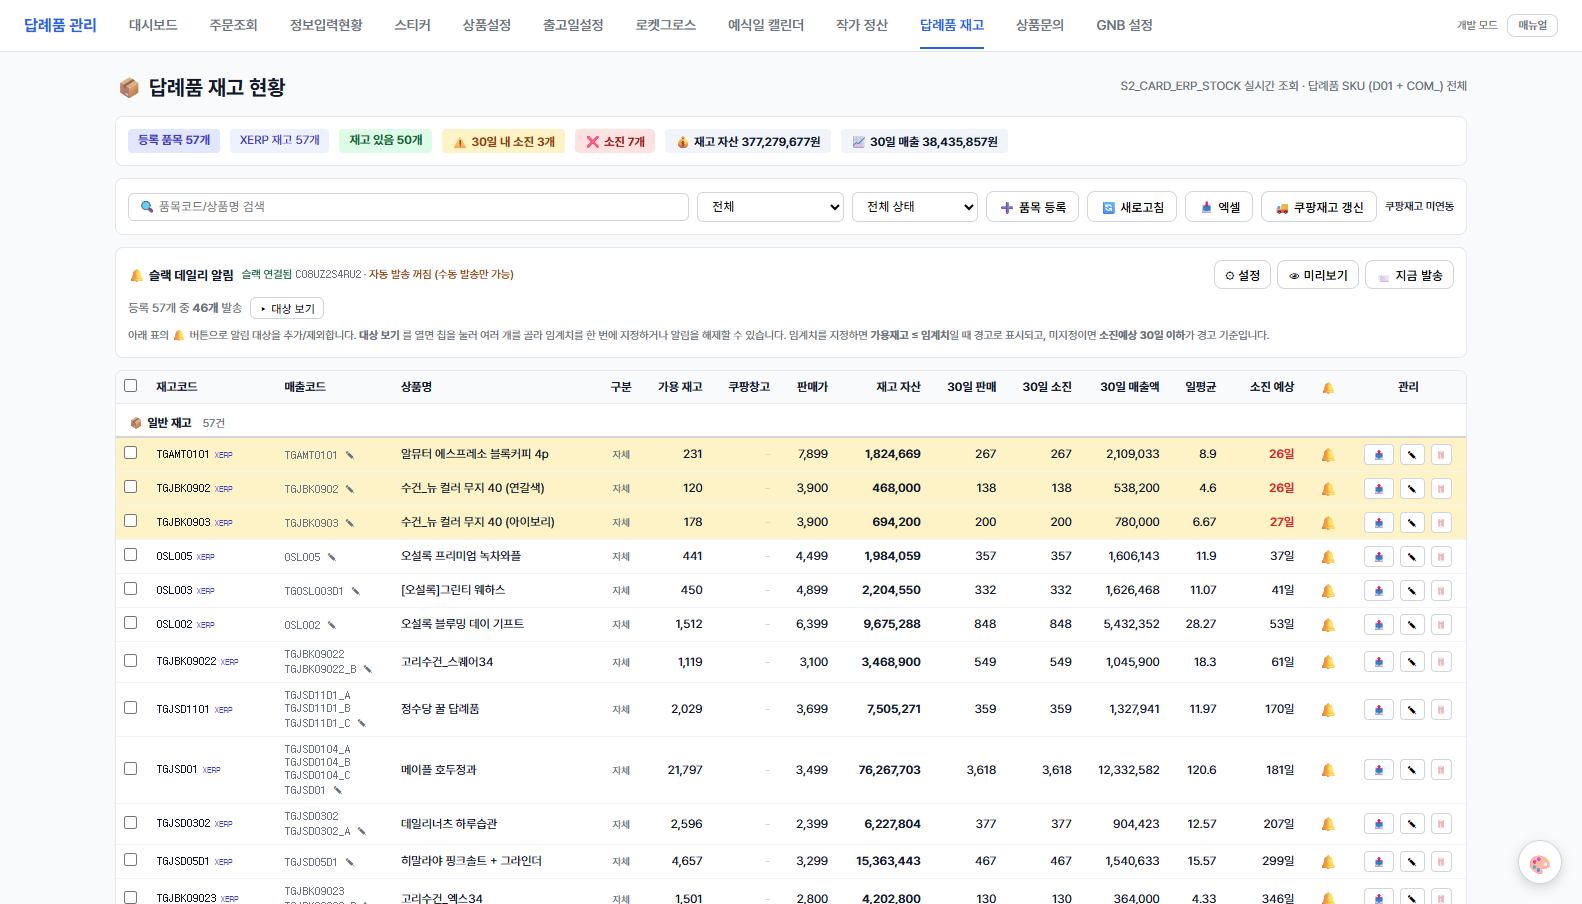
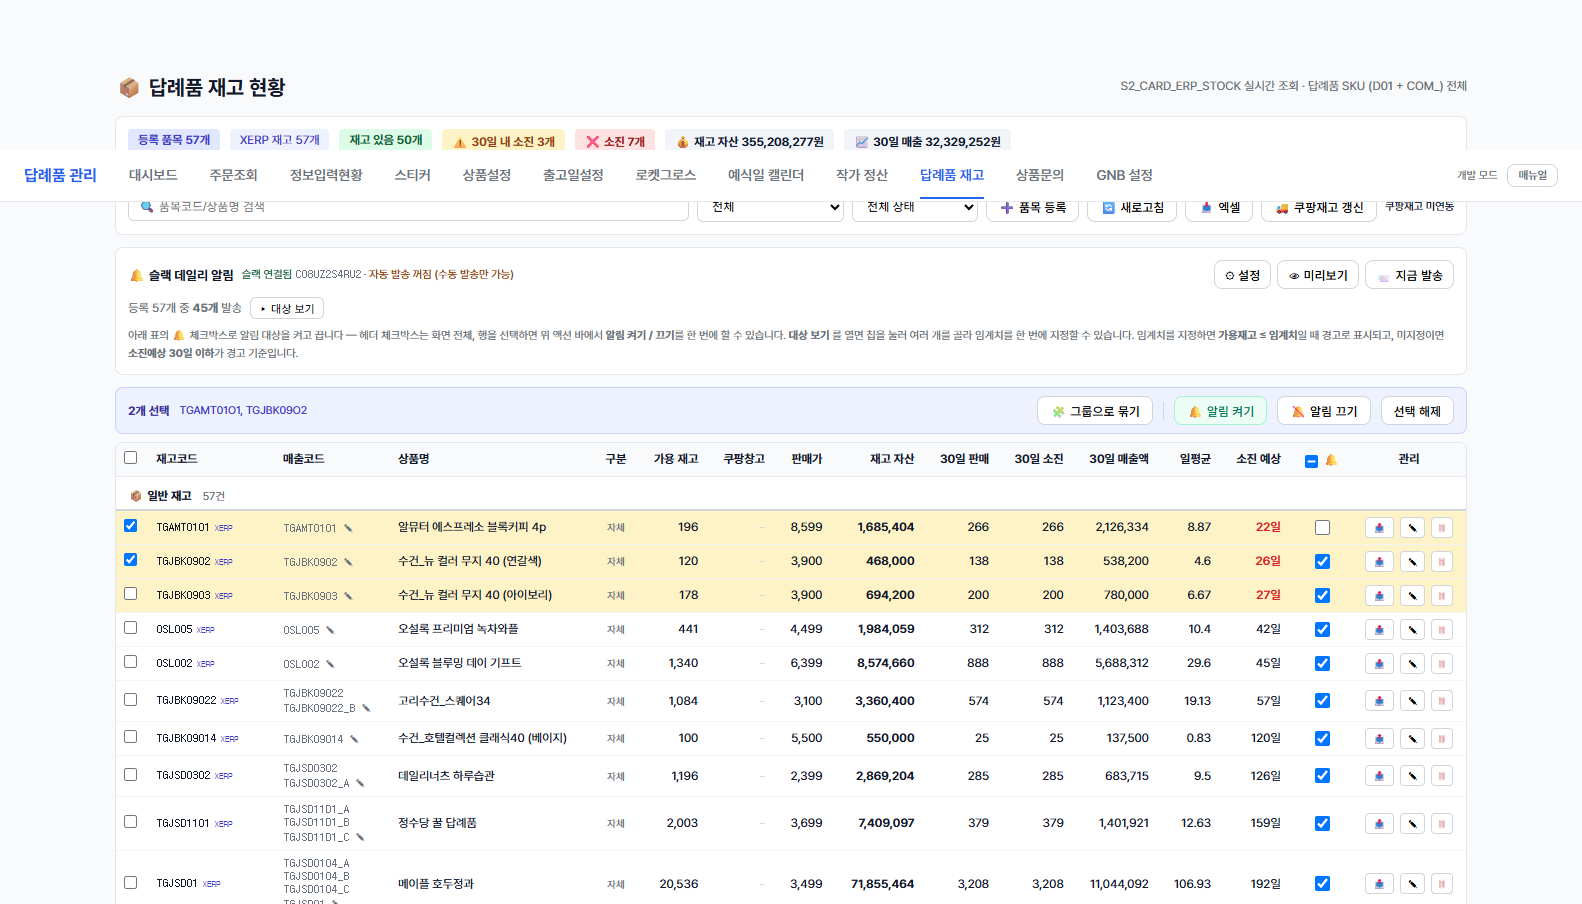
feat: 재고 알림 대상을 체크박스로 — 개별 즉시 저장 + 화면 전체 + 선택 일괄
종 아이콘을 하나씩 눌러 켜고 끄는 방식은 품목이 57개라 시간이 너무 걸렸다 (2026-08-13 요청).
🔔 열을 체크박스로 바꾸고 세 층으로 조작할 수 있게 한다.

· 행 체크박스 — 바꾸는 즉시 PATCH. 실패하면 체크를 원래대로 되돌린다.
  성공해도 표를 다시 그리지 않는다 — 체크 하나에 전체 리로드는 화면이 깜빡이고
  스크롤이 튄다. 로컬 상태만 갱신하고 알림 요약 카드만 새로 읽는다.
· 🔔 헤더 체크박스 — 화면에 보이는 등록 품목 전체 (검색·필터로 좁힌 범위 그대로).
  일부만 켜져 있으면 indeterminate. 이미 그 상태인 것은 요청하지 않는다.
· 선택 액션 바 — 왼쪽 행 선택으로 고른 품목에 '알림 켜기 / 알림 끄기' 일괄 적용.
  그룹 묶기용으로 이미 있던 선택 체크박스를 그대로 쓴다.

기존 toggleStockSelectAll 은 onchange 문자열로 대상을 골라 알림 체크박스에 영향이 없음을 확인했다.
실서버로 단건 켜기→끄기→켜기 왕복을 검증하고 원상 복구했다.

매뉴얼 12장에 지정 방법 3가지 추가, 스크린샷 재촬영.

diff --git a/pricing-prototype/daeryepum/index.html b/pricing-prototype/daeryepum/index.html
@@ -2510,8 +2510,8 @@ nav.nav-loading a[href^="#"] {
     </div>
     <div id="stock-alert-list" style="font-size:12px;color:var(--gray-500)">불러오는 중…</div>
     <div style="margin-top:8px;font-size:11px;color:var(--gray-500);line-height:1.6">
-      아래 표의 🔔 버튼으로 알림 대상을 추가/제외합니다. <b>대상 보기</b> 를 열면 칩을 눌러 여러 개를 골라
-      임계치를 한 번에 지정하거나 알림을 해제할 수 있습니다.
+      아래 표의 🔔 체크박스로 알림 대상을 켜고 끕니다 — 헤더 체크박스는 화면 전체, 행을 선택하면 위 액션 바에서
+      <b>알림 켜기 / 끄기</b>를 한 번에 할 수 있습니다. <b>대상 보기</b> 를 열면 칩을 눌러 여러 개를 골라 임계치를 한 번에 지정할 수 있습니다.
       임계치를 지정하면 <b>가용재고 ≤ 임계치</b>일 때 경고로 표시되고, 미지정이면 <b>소진예상 30일 이하</b>가 경고 기준입니다.
     </div>
   </div>
@@ -2525,6 +2525,9 @@ nav.nav-loading a[href^="#"] {
     <b style="font-size:12px;color:#3730a3"><span id="stock-selection-count">0</span>개 선택</b>
     <span id="stock-selection-codes" style="font-size:11px;color:#4338ca;flex:1;overflow:hidden;text-overflow:ellipsis;white-space:nowrap"></span>
     <button class="btn" style="padding:5px 12px;font-size:12px" onclick="groupSelectedStockItems()">🧩 그룹으로 묶기</button>
+    <span style="width:1px;height:18px;background:#c7d2fe"></span>
+    <button class="btn" style="padding:5px 12px;font-size:12px;background:#ecfdf5;border-color:#a7f3d0;color:#047857" onclick="bulkSetSelectedAlerts(true)" title="선택한 품목을 슬랙 데일리 알림 대상에 넣습니다">🔔 알림 켜기</button>
+    <button class="btn" style="padding:5px 12px;font-size:12px" onclick="bulkSetSelectedAlerts(false)" title="선택한 품목을 슬랙 데일리 알림에서 뺍니다 (재고 목록에는 남습니다)">🔕 알림 끄기</button>
     <button class="btn" style="padding:5px 12px;font-size:12px" onclick="clearStockSelection()">선택 해제</button>
   </div>
 
@@ -2550,7 +2553,8 @@ nav.nav-loading a[href^="#"] {
           <th style="text-align:right;padding:8px 12px;border-bottom:1px solid var(--gray-200)" title="TOTAL_SALE_PRICE_30_DAY">30일 매출액</th>
           <th style="text-align:right;padding:8px 12px;border-bottom:1px solid var(--gray-200)">일평균</th>
           <th style="text-align:right;padding:8px 12px;border-bottom:1px solid var(--gray-200)">소진 예상</th>
-          <th style="text-align:center;padding:8px 12px;border-bottom:1px solid var(--gray-200)" title="슬랙 데일리 알림 대상">🔔</th>
+          <th style="text-align:center;padding:8px 12px;border-bottom:1px solid var(--gray-200);white-space:nowrap" title="슬랙 데일리 알림 대상 — 헤더 체크박스로 화면의 등록 품목 전체를 한 번에 켜고 끕니다">
+            <input type="checkbox" id="stock-alert-all" onchange="toggleStockAlertAll(this.checked)" style="cursor:pointer;vertical-align:middle;margin-right:2px"> 🔔</th>
           <th style="text-align:center;padding:8px 12px;border-bottom:1px solid var(--gray-200)" title="이 품목의 등록 정보를 수정하거나 목록에서 제거">관리</th>
         </tr>
       </thead>
@@ -15872,6 +15876,7 @@ function renderStockTable() {
   }
   $tbody.innerHTML = _stockGroupedRows(items);
   _syncStockSelectionBar();
+  _syncStockAlertHeaderCb();
   $loading.style.display = 'none';
   $table.style.display = '';
 }
@@ -16445,7 +16450,7 @@ function renderStockAlertList() {
     return;
   }
   if (!on.length) {
-    $list.innerHTML = `<span style="color:var(--gray-500)">등록 품목 ${_stockAlerts.length}개 중 알림 대상이 없습니다. 표의 🔔 을 켜세요.</span>`;
+    $list.innerHTML = `<span style="color:var(--gray-500)">등록 품목 ${_stockAlerts.length}개 중 알림 대상이 없습니다. 표의 🔔 체크박스를 켜세요.</span>`;
     return;
   }
   // 선택은 화면에 보이는 대상만 유효 — 알림이 꺼진 품목이 선택에 남지 않게 정리
@@ -16893,15 +16898,21 @@ async function saveStockEditModal() {
   }
 }
 
-/** 재고 표의 🔔 셀 — 등록 품목의 슬랙 알림 포함 여부 토글 */
+/**
+ * 재고 표의 🔔 셀 — 슬랙 알림 포함 여부 체크박스.
+ *   종 아이콘 클릭 방식은 하나씩 켜고 끄는 데 시간이 오래 걸렸다 (2026-08-13 요청).
+ *   체크박스로 바꾸고, 헤더 체크박스(보이는 행 전체)와 행 선택 → 일괄 켜기/끄기를 같이 둔다.
+ *   단건은 바꾸는 즉시 저장한다 — 예전 종 아이콘과 같은 즉시 반영이다.
+ */
 function _stockBellCell(it) {
   const on = it.alert_enabled !== false;
-  return `<button onclick="toggleStockItemAlert('${esc(it.item_id)}', ${on ? 'false' : 'true'})"
-    title="${on ? '슬랙 알림에서 제외' : '슬랙 알림에 포함'}"
-    style="border:none;background:none;cursor:pointer;font-size:14px;padding:0;opacity:${on ? 1 : 0.25}">🔔</button>`;
+  return `<input type="checkbox" class="stock-alert-cb" data-item-id="${esc(it.item_id)}" ${on ? 'checked' : ''}
+    onchange="toggleStockItemAlert('${esc(it.item_id)}', this.checked, this)"
+    title="${on ? '슬랙 데일리 알림 대상 — 끄려면 체크 해제' : '알림 제외 중 — 켜려면 체크'}"
+    style="cursor:pointer;width:15px;height:15px;vertical-align:middle">`;
 }
 
-async function toggleStockItemAlert(id, turnOn) {
+async function toggleStockItemAlert(id, turnOn, cb) {
   if (!id) { alert('등록 정보를 찾을 수 없습니다. 새로고침 후 다시 시도하세요.'); return; }
   try {
     const r = await fetch(`${API}/api/bg/stock-alerts/${encodeURIComponent(id)}`, {
@@ -16911,8 +16922,79 @@ async function toggleStockItemAlert(id, turnOn) {
     });
     const d = await r.json();
     if (d.error) throw new Error(d.error);
-    await Promise.all([loadDaeryepumStock(), loadStockAlerts()]);
-  } catch (e) { alert(`실패: ${e.message}`); }
+    // 로컬 상태만 갱신하고 표는 다시 그리지 않는다 — 전체 리로드는 체크박스 하나 바꿀 때마다
+    //   화면이 깜빡이고 스크롤이 튄다. 알림 요약 카드만 새로 읽는다.
+    const it = _stockData.find(x => x.item_id === id);
+    if (it) it.alert_enabled = !!turnOn;
+    _syncStockAlertHeaderCb();
+    await loadStockAlerts();
+  } catch (e) {
+    if (cb) cb.checked = !turnOn;   // 실패하면 원래대로 되돌린다
+    alert(`실패: ${e.message}`);
+  }
+}
+
+/** 🔔 헤더 체크박스 — 화면에 보이는 등록 품목 전체를 한 번에 켜거나 끈다 */
+async function toggleStockAlertAll(on) {
+  const cbs = [...document.querySelectorAll('#stock-tbody .stock-alert-cb')];
+  const ids = cbs.map(cb => cb.dataset.itemId).filter(Boolean);
+  if (!ids.length) return;
+  // 이미 그 상태인 것은 건드리지 않는다 — 요청 수를 줄이고 실패 범위를 좁힌다
+  const targets = cbs.filter(cb => cb.checked !== on).map(cb => cb.dataset.itemId);
+  if (!targets.length) { _syncStockAlertHeaderCb(); return; }
+  if (!confirm(`화면의 ${targets.length}개 품목 알림을 ${on ? '켭니다' : '끕니다'}.\n진행할까요?`)) {
+    _syncStockAlertHeaderCb(); return;
+  }
+  await _applyAlertEnabled(targets, on);
+}
+
+/** 선택 액션 바 — 행 선택 체크박스로 고른 품목의 알림을 일괄 켜기/끄기 */
+async function bulkSetSelectedAlerts(on) {
+  const codes = [..._stockSelected];
+  if (!codes.length) return;
+  const ids = codes.map(c => _stockData.find(x => x.stock_code === c)?.item_id).filter(Boolean);
+  if (!ids.length) { showToast('선택한 행에 등록 품목이 없습니다'); return; }
+  const changing = ids.filter(id => {
+    const it = _stockData.find(x => x.item_id === id);
+    return it && (it.alert_enabled !== false) !== on;
+  });
+  if (!changing.length) { showToast(`이미 모두 ${on ? '켜져' : '꺼져'} 있습니다`); return; }
+  await _applyAlertEnabled(changing, on);
+}
+
+/** 여러 품목 alert_enabled 일괄 변경 — 성공한 것만 로컬 반영, 실패는 코드까지 알린다 */
+async function _applyAlertEnabled(ids, on) {
+  const failed = [];
+  for (const id of ids) {
+    try {
+      const r = await fetch(`${API}/api/bg/stock-alerts/${encodeURIComponent(id)}`, {
+        method: 'PATCH', headers: { 'Content-Type': 'application/json' },
+        body: JSON.stringify({ alert_enabled: !!on }),
+      });
+      const d = await r.json();
+      if (d.error) throw new Error(d.error);
+      const it = _stockData.find(x => x.item_id === id);
+      if (it) it.alert_enabled = !!on;
+    } catch (e) {
+      const it = _stockData.find(x => x.item_id === id);
+      failed.push(`${it ? it.stock_code : id}: ${e.message}`);
+    }
+  }
+  renderStockTable();
+  await loadStockAlerts();
+  const okCount = ids.length - failed.length;
+  if (failed.length) alert(`${okCount}개 ${on ? '켬' : '끔'} · ${failed.length}건 실패\n${failed.join('\n')}`);
+  else showToast(`${okCount}개 품목 알림 ${on ? '켬' : '끔'}`);
+}
+
+/** 헤더 체크박스 상태 = 보이는 행이 전부 켜져 있는가 (일부만이면 indeterminate) */
+function _syncStockAlertHeaderCb() {
+  const head = document.getElementById('stock-alert-all');
+  if (!head) return;
+  const cbs = [...document.querySelectorAll('#stock-tbody .stock-alert-cb')];
+  const onCount = cbs.filter(cb => cb.checked).length;
+  head.checked = cbs.length > 0 && onCount === cbs.length;
+  head.indeterminate = onCount > 0 && onCount < cbs.length;
 }
 
 // 단건 임계치 변경은 표의 ✎ (등록 정보 수정) 과 칩 다중선택 > 임계치 설정 으로 한다.
@@ -18270,8 +18352,9 @@ async function loadRgLines() {
     if (d.error) throw new Error(d.error);
     _rgLines = d.lines || [];
     renderRgLines();
-    // 판매단위별 마진 시뮬레이션은 같은 라인을 다른 축으로 본다 — 조회마다 함께 갱신
-    _rgmSim = {};
+    // 판매단위별 마진 시뮬레이션은 같은 라인을 다른 축으로 본다 — 조회마다 함께 갱신.
+    //   저장된 가정치(069)를 먼저 깔고, 아직 저장 안 한 편집이 있으면 그 위에 남긴다.
+    await rgmLoadSaved();
     renderRgMargin();
   } catch (e) {
     $w.innerHTML = `<div style="padding:16px;color:#dc2626;font-size:12px">조회 실패: ${esc(e.message)}</div>`;
@@ -18793,8 +18876,50 @@ async function syncRgWorkflow() {
 //
 //   ⚠ 취소 라인은 뺀다. 매출이 음수로 잡혀 평균 판매가와 요율을 흔든다.
 //   ⚠ 원가는 '상품 1개당' 이라 판매단위(1주문 = 상품 N개)를 곱한다 (068 · 060).
-let _rgmSim = {};      // vendor_item_id → { price, unit_cost, inbound } 사용자 가정치 (미저장)
+let _rgmSim = {};      // vendor_item_id → { price, unit_cost, inbound, target, memo } 화면 가정치
+let _rgmSaved = {};    // vendor_item_id → 서버에 저장된 가정치 (dirty 판정 기준)
 let _rgmRows = [];     // 마지막 렌더 결과 (엑셀 다운로드용)
+let _rgmSavedLoaded = false;
+
+/** 서버 저장값 → _rgmSaved / _rgmSim. 아직 저장 안 한 편집(dirty)은 덮어쓰지 않는다. */
+async function rgmLoadSaved() {
+  try {
+    const r = await fetch(`${API}/api/coupang/rfm/margin-sim`);
+    const d = await r.json();
+    if (d.error) throw new Error(d.error);
+    const saved = {};
+    for (const x of d.sims || []) {
+      const o = {};
+      if (x.sim_price != null) o.price = Number(x.sim_price);
+      if (x.sim_unit_cost != null) o.unit_cost = Number(x.sim_unit_cost);
+      if (x.sim_inbound_cost != null) o.inbound = Number(x.sim_inbound_cost);
+      if (x.target_margin_rate != null) o.target = Number(x.target_margin_rate) * 100;   // 화면은 %
+      if (x.memo) o.memo = String(x.memo);
+      saved[x.vendor_item_id] = o;
+    }
+    // dirty 인 항목은 유지 — 저장 안 한 편집을 조회가 지우면 안 된다
+    const dirty = new Set(Object.keys(_rgmSim).filter(v => _rgmIsDirty(v)));
+    _rgmSaved = saved;
+    const next = {};
+    for (const [vid, o] of Object.entries(saved)) next[vid] = { ...o };
+    for (const vid of dirty) next[vid] = _rgmSim[vid];
+    _rgmSim = next;
+    _rgmSavedLoaded = true;
+  } catch (e) {
+    console.warn('[rg-margin] 저장값 로드 실패 (편집은 가능, 저장은 재시도 필요):', e.message);
+  }
+}
+
+const RGM_FIELDS = ['price', 'unit_cost', 'inbound', 'target', 'memo'];
+function _rgmIsDirty(vid) {
+  const a = _rgmSim[vid] || {}, b = _rgmSaved[vid] || {};
+  return RGM_FIELDS.some(f => (a[f] ?? null) !== (b[f] ?? null));
+}
+function _rgmDirtyCount() {
+  const vids = new Set([...Object.keys(_rgmSim), ...Object.keys(_rgmSaved)]);
+  let n = 0; for (const v of vids) if (_rgmIsDirty(v)) n++;
+  return n;
+}
 
 function _rgmAggregate() {
   const by = new Map();
@@ -18864,6 +18989,10 @@ function _rgmAggregate() {
     const sMarginRate = sHasCost && sPrice > 0 ? sMargin / sPrice : null;
     // 손익분기 판매가 — 마진 0 이 되는 가격.  P(1−c) − in − sh − cost = 0
     const bePrice = sHasCost && commRate < 1 ? (inoutPer + shipPer + sCostPerUnit) / (1 - commRate) : null;
+    // 목표 마진율 t 를 맞추는 판매가 — P(1−c) − in − sh − cost = tP  →  P = (in+sh+cost)/(1−c−t)
+    const target = sim.target != null ? Number(sim.target) / 100 : null;
+    const targetPrice = (target != null && sHasCost && (1 - commRate - target) > 0)
+      ? (inoutPer + shipPer + sCostPerUnit) / (1 - commRate - target) : null;
 
     rows.push({
       ...g, order_count: g.orders.size,
@@ -18872,9 +19001,11 @@ function _rgmAggregate() {
       margin, margin_rate: marginRate,
       sim: {
         price: sPrice, unit_cost: sUnitCost ?? null, inbound: sInbound ?? null,
-        touched: sim.price != null || sim.unit_cost != null || sim.inbound != null,
+        touched: sim.price != null || sim.unit_cost != null || sim.inbound != null || sim.target != null,
         commission: sComm, settle: sSettle, cost_per_unit: sCostPerUnit,
         margin: sMargin, margin_rate: sMarginRate, be_price: bePrice,
+        target, target_price: targetPrice, memo: sim.memo || '',
+        dirty: _rgmIsDirty(g.vendor_item_id), saved: !!_rgmSaved[g.vendor_item_id],
         // 실적 마진율 대비 변화 (%p)
         delta_pt: (sMarginRate != null && marginRate != null) ? (sMarginRate - marginRate) * 100 : null,
       },

diff --git a/pricing-prototype/daeryepum/manual.html b/pricing-prototype/daeryepum/manual.html
@@ -488,7 +488,16 @@ code{background:var(--gray-100);padding:2px 6px;border-radius:4px;font-size:12px
   <tr><td>📝 일지</td><td>일별 운영 기록 + 당일 매출 메트릭 스냅샷</td></tr>
 </table>
 <div class="img-wrap"><img src="manual-assets/monthly-report.png" alt="월간 보고서"><div class="img-cap">월간 보고서</div></div>
-<div class="img-wrap"><img src="manual-assets/stock.png" alt="답례품 재고"><div class="img-cap">답례품 재고</div></div>
+<div class="img-wrap"><img src="manual-assets/stock.png" alt="답례품 재고"><div class="img-cap">답례품 재고 — 🔔 열 체크박스로 슬랙 알림 대상을 켜고 끕니다. 행을 선택하면 액션 바에서 일괄 켜기/끄기</div></div>
+
+<h4>슬랙 데일리 알림 대상 지정</h4>
+<p>표 오른쪽 <b>🔔</b> 열이 알림 대상 체크박스입니다. 세 가지 방법으로 지정합니다.</p>
+<ul>
+  <li><b>하나씩</b>: 행의 🔔 체크박스를 켜고 끄면 즉시 저장됩니다.</li>
+  <li><b>화면 전체</b>: 🔔 헤더의 체크박스 — 지금 화면에 보이는 등록 품목 전체를 한 번에 켜거나 끕니다 (검색·필터로 좁힌 뒤 누르면 그 범위만). 일부만 켜져 있으면 헤더가 <code>−</code> 로 보입니다.</li>
+  <li><b>골라서 일괄</b>: 왼쪽 행 선택 체크박스로 품목을 고르면 위에 액션 바가 뜨고, <b>🔔 알림 켜기 / 🔕 알림 끄기</b> 로 선택한 것만 한 번에 바꿉니다.</li>
+</ul>
+<div class="tip">알림을 꺼도 재고 목록에서 사라지지 않습니다 — 슬랙 데일리 발송 대상에서만 빠집니다. 임계치는 알림 카드의 <b>대상 보기</b> 에서 여러 개를 골라 한 번에 지정합니다.</div>
 
 <h4>쿠팡창고 열</h4>
 <p><b>🚚 쿠팡재고 갱신</b>을 누르면 쿠팡 물류센터(로켓창고)의 <b>주문가능 수량</b>을 가져와 자사 재고 옆에 함께 보여줍니다.</p>
